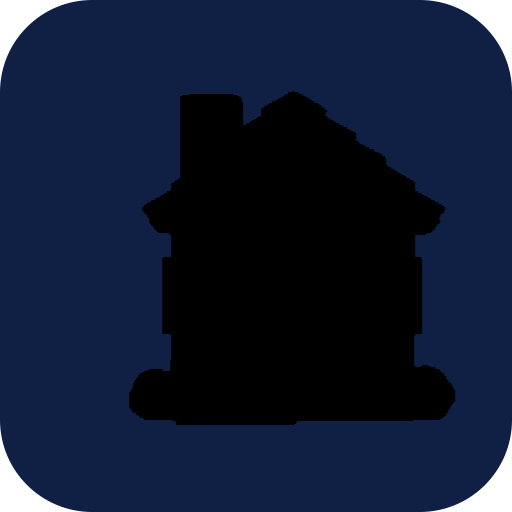
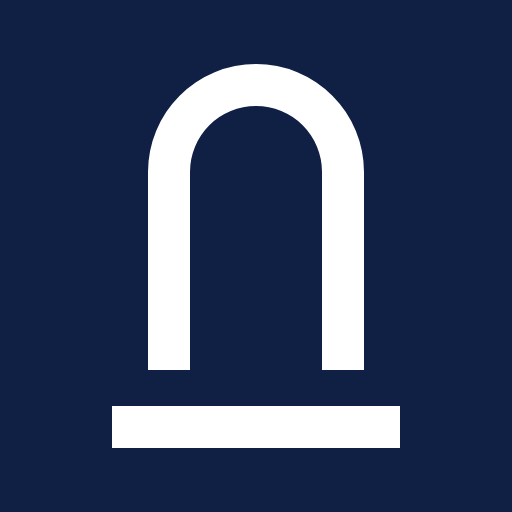
Adopt Eastwinds branding
Arch mark and wordmark from the design work. Icon SVGs live in
public/brand; PNGs at 512, 192 and 180 are rendered from the same path so
they can't drift.

The header uses a Brand component: the mark inlined as SVG so it inherits
currentColor and costs no request, with the name as real HTML text. The
wordmark SVG sets its name as live <text> and so depends on Geist being
loaded, which isn't a dependency worth taking in a header that already
has the font.

Manifest icons declare maskable. The mark sits inside the centre 75%, so
Android's circle and squircle crops can't clip it.

"Student Maintenance Hub" is gone. Step 1 now reads "Report a maintenance
issue" under the lockup, which says what the page does rather than
restating the brand.

diff --git a/src/app/Brand.tsx b/src/app/Brand.tsx
@@ -1,0 +1,54 @@
+/**
+ * The Eastwinds lockup: the arch mark plus the name as real text.
+ *
+ * The name is HTML rather than the wordmark SVG on purpose. That SVG sets the
+ * name as live <text>, so it depends on Geist being loaded and would fall back
+ * to different metrics if it weren't. As HTML it uses the same font the rest of
+ * the page already has, and stays selectable.
+ *
+ * The mark is inlined rather than an <img> so it inherits currentColor and
+ * costs no extra request.
+ */
+export default function Brand({
+  tone = "light",
+  size = "md",
+}: {
+  /** "light" for the navy header, "dark" for white backgrounds. */
+  tone?: "light" | "dark";
+  size?: "sm" | "md";
+}) {
+  const markSize = size === "sm" ? "h-6 w-6" : "h-8 w-8";
+  const nameSize = size === "sm" ? "text-base" : "text-lg";
+
+  return (
+    <span className="inline-flex items-center gap-2.5">
+      <svg
+        viewBox="0 0 512 512"
+        className={`${markSize} shrink-0`}
+        fill={tone === "light" ? "#ffffff" : "#0f2044"}
+        aria-hidden="true"
+      >
+        <path
+          fillRule="evenodd"
+          d="M148 370V172a108 108 0 0 1 216 0v198h-42V172a66 66 0 0 0-132 0v198zM112 406h288v42H112z"
+        />
+      </svg>
+      <span className="flex flex-col leading-none">
+        <span
+          className={`${nameSize} font-semibold tracking-tight ${
+            tone === "light" ? "text-white" : "text-[#0f2044]"
+          }`}
+        >
+          Eastwinds
+        </span>
+        <span
+          className={`font-mono text-[9px] tracking-[0.18em] mt-0.5 ${
+            tone === "light" ? "text-blue-200" : "text-slate-500"
+          }`}
+        >
+          PROPERTY GROUP
+        </span>
+      </span>
+    </span>
+  );
+}

diff --git a/src/app/page.tsx b/src/app/page.tsx
@@ -4,6 +4,7 @@ import { useState, useRef } from "react";
 import { useRouter } from "next/navigation";
 import { CATEGORIES, type Category, type Subcategory } from "@/lib/categories";
 import { iconForCategory } from "@/lib/categoryIcons";
+import Brand from "./Brand";
 import { ArrowLeft, CirclePlay, Info, TriangleAlert, X } from "lucide-react";
 import {
   compressImage,
@@ -271,7 +272,8 @@ export default function Home() {
       <div className="min-h-screen bg-slate-50">
         <header className="bg-[#0f2044] px-6 py-8">
           <div className="max-w-xl mx-auto">
-            <h1 className="text-2xl font-bold text-white">Student Maintenance Hub</h1>
+            <Brand />
+            <h1 className="text-2xl font-bold text-white mt-4">Report a maintenance issue</h1>
             <p className="text-blue-200 text-sm mt-1">Select the type of issue to get started</p>
           </div>
         </header>

diff --git a/src/app/manifest.ts b/src/app/manifest.ts
@@ -2,9 +2,9 @@ import type { MetadataRoute } from "next";
 
 export default function manifest(): MetadataRoute.Manifest {
   return {
-    name: "Student Maintenance Hub",
-    short_name: "Maintenance",
-    description: "Report maintenance issues at your student property",
+    name: "Eastwinds Maintenance",
+    short_name: "Eastwinds",
+    description: "Report a maintenance issue at your Eastwinds property",
     start_url: "/",
     display: "standalone",
     background_color: "#0f2044",
@@ -14,11 +14,13 @@ export default function manifest(): MetadataRoute.Manifest {
         src: "/icon-192.png",
         sizes: "192x192",
         type: "image/png",
+        purpose: "maskable",
       },
       {
         src: "/icon-512.png",
         sizes: "512x512",
         type: "image/png",
+        purpose: "maskable",
       },
     ],
   };

diff --git a/src/app/admin/login/page.tsx b/src/app/admin/login/page.tsx
@@ -3,6 +3,7 @@
 import { useState } from "react";
 import { createClient } from "@/utils/supabase/client";
 import { useRouter } from "next/navigation";
+import Brand from "@/app/Brand";
 
 export default function AdminLogin() {
   const router = useRouter();
@@ -34,10 +35,8 @@ export default function AdminLogin() {
     <div className="min-h-screen bg-slate-50 flex flex-col">
       <header className="bg-[#0f2044] px-6 py-8">
         <div className="max-w-xl mx-auto">
-          <h1 className="text-2xl font-bold text-white">
-            Student Maintenance Hub
-          </h1>
-          <p className="text-blue-200 text-sm mt-1">Landlord dashboard</p>
+          <Brand />
+          <p className="text-blue-200 text-sm mt-3">Maintenance dashboard</p>
         </div>
       </header>
 

diff --git a/src/app/confirmation/[reference]/page.tsx b/src/app/confirmation/[reference]/page.tsx
@@ -1,6 +1,7 @@
 import { createAdminClient } from "@/utils/supabase/admin";
 import { notFound } from "next/navigation";
 import Link from "next/link";
+import Brand from "@/app/Brand";
 import CloseTicketButton from "./CloseTicketButton";
 
 export default async function ConfirmationPage({
@@ -24,7 +25,7 @@ export default async function ConfirmationPage({
       <header className="bg-[#0f2044] px-6 py-8">
         <div className="max-w-xl mx-auto">
           <Link href="/" className="inline-block hover:opacity-80 transition-opacity">
-            <h1 className="text-2xl font-bold text-white">Student Maintenance Hub</h1>
+            <Brand />
           </Link>
           <p className="text-blue-200 text-sm mt-1">Request received</p>
         </div>

diff --git a/src/app/layout.tsx b/src/app/layout.tsx
@@ -13,12 +13,12 @@ const geistMono = Geist_Mono({
 });
 
 export const metadata: Metadata = {
-  title: "Student Maintenance Hub",
-  description: "Report maintenance issues at your student property",
+  title: "Eastwinds Maintenance",
+  description: "Report a maintenance issue at your Eastwinds property",
   appleWebApp: {
     capable: true,
     statusBarStyle: "black-translucent",
-    title: "Maintenance",
+    title: "Eastwinds",
   },
   other: {
     "mobile-web-app-capable": "yes",
